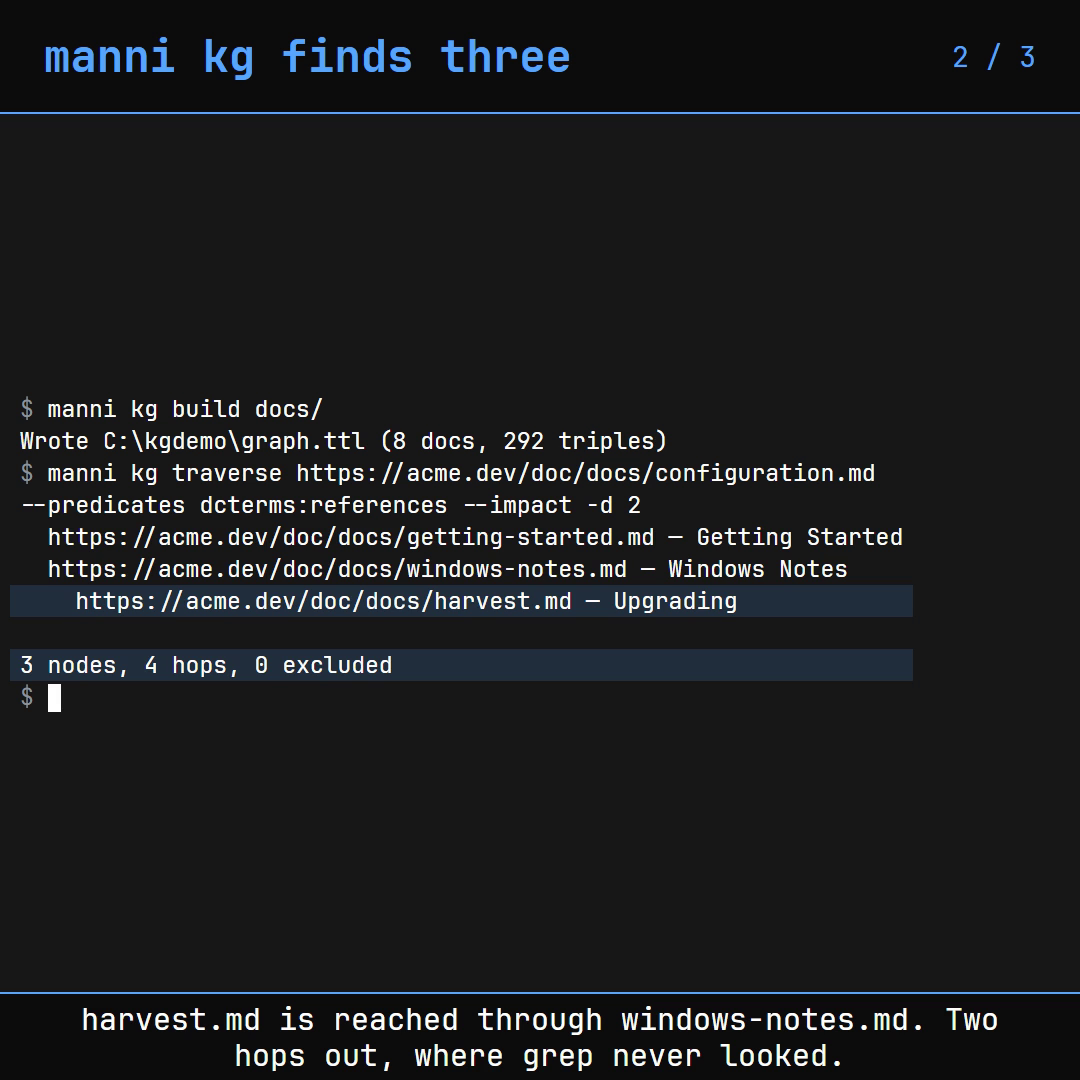
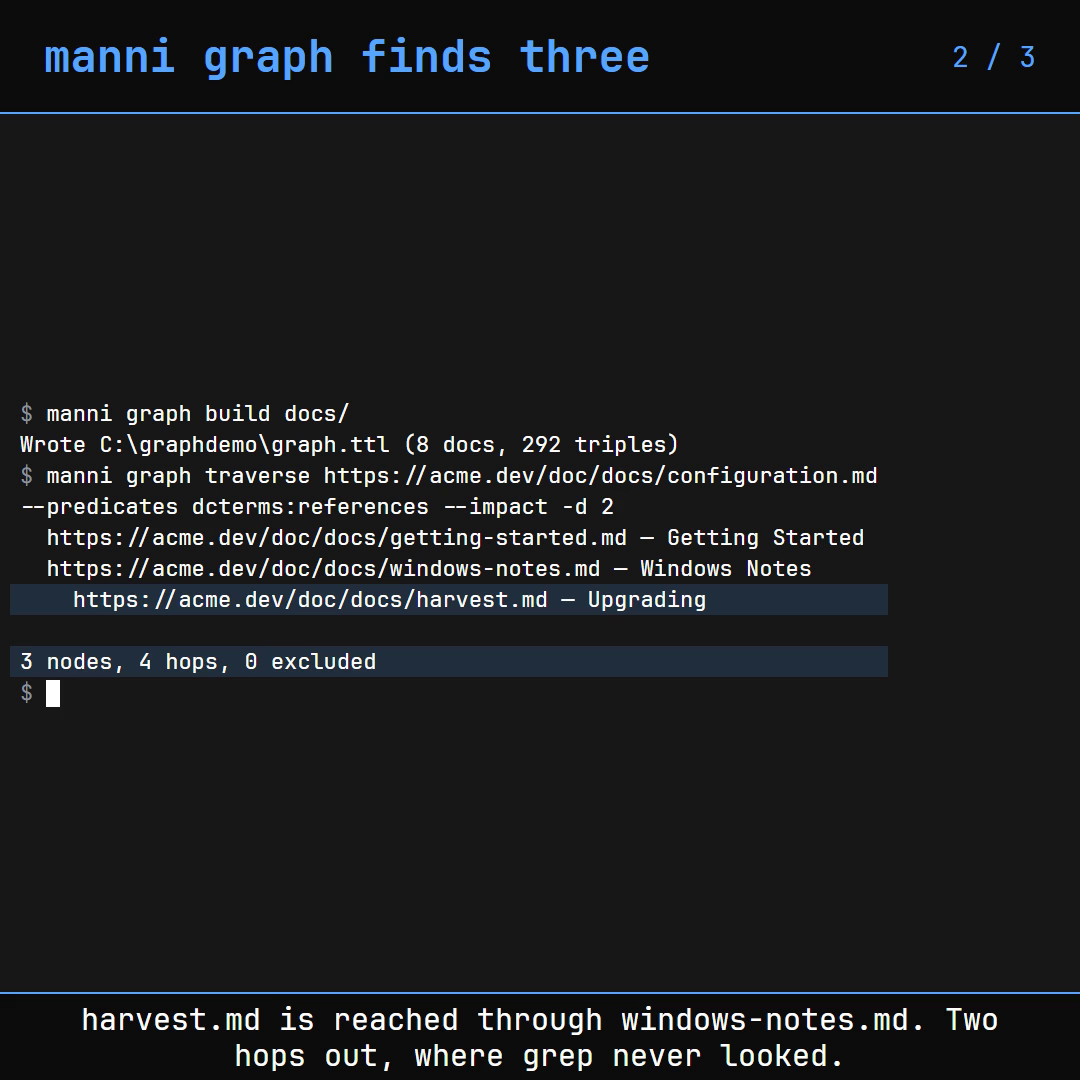
docs(media): the graph impact demo, re-shot under manni graph
Re-captures every terminal byte with the current build (1fc8bd2), so each frame,
the GIF and the thumbnail read `manni graph`. The staging repo moves from
C:\kgdemo to C:\graphdemo, and the capture script now refuses an existing
staging directory instead of deleting it.

The `graph:` prefix makes the two query rows 75 characters, so the type drops
to 22 px at 75 columns (70 px right margin). Latencies are re-measured (build
up to 1166 ms) and the video runs 33.8 s. The VTT and transcript are
regenerated from the new beats.

Changed region(s): [[0.0, 0.3667, 0.8556, 0.6722], [0.1833, 0.0306, 0.6111, 0.0917]]

diff --git a/media/remotion/scripts/out-graph-impact/graph-impact/beats.js b/media/remotion/scripts/out-graph-impact/graph-impact/beats.js
@@ -8,19 +8,19 @@ const captures_json_1 = __importDefault(require("./captures.json"));
 const beats_1 = require("../beats");
 Object.defineProperty(exports, "FPS", { enumerable: true, get: function () { return beats_1.FPS; } });
 // Typing speed for this video (design.md: 35-70 ms). The quick end of the range:
-// the traverse invocation is 108 characters, and at 45 ms it alone would eat
+// the traverse invocation is 111 characters, and at 45 ms it alone would eat
 // five seconds of a forty-five second budget.
 exports.TYPING_MS = 35;
-// Measured wall-clock latency on this machine, in C:\kgdemo
+// Measured wall-clock latency on this machine, in C:\graphdemo
 // (media/graph/graph-impact-capture/latency.txt: the capture run plus three timing runs):
-// build 823-864 ms, traverse 757-793 ms, query 754-794 ms, stats --check
-// 754-855 ms, grep 27-29 ms. Held to the slowest of each, so output never
+// build 1086-1166 ms, traverse 957-975 ms, query 947-964 ms, stats --check
+// 957-972 ms, grep 30-36 ms. Held to the slowest of each, so output never
 // appears sooner than the real command produced it.
 exports.latency = {
-    build: Math.round(0.86 * beats_1.FPS),
-    traverse: Math.round(0.79 * beats_1.FPS),
-    query: Math.round(0.79 * beats_1.FPS),
-    statsCheck: Math.round(0.86 * beats_1.FPS),
+    build: Math.round(1.17 * beats_1.FPS),
+    traverse: Math.round(0.98 * beats_1.FPS),
+    query: Math.round(0.97 * beats_1.FPS),
+    statsCheck: Math.round(0.98 * beats_1.FPS),
     grep: 2,
 };
 const IRI = "https://acme.dev/doc/docs/configuration.md";

diff --git a/media/remotion/src/graph-impact/beats.ts b/media/remotion/src/graph-impact/beats.ts
@@ -4,20 +4,20 @@ import { FPS, timeline, type Beat } from "../beats";
 export { FPS };
 
 // Typing speed for this video (design.md: 35-70 ms). The quick end of the range:
-// the traverse invocation is 108 characters, and at 45 ms it alone would eat
+// the traverse invocation is 111 characters, and at 45 ms it alone would eat
 // five seconds of a forty-five second budget.
 export const TYPING_MS = 35;
 
-// Measured wall-clock latency on this machine, in C:\kgdemo
+// Measured wall-clock latency on this machine, in C:\graphdemo
 // (media/graph/graph-impact-capture/latency.txt: the capture run plus three timing runs):
-// build 823-864 ms, traverse 757-793 ms, query 754-794 ms, stats --check
-// 754-855 ms, grep 27-29 ms. Held to the slowest of each, so output never
+// build 1086-1166 ms, traverse 957-975 ms, query 947-964 ms, stats --check
+// 957-972 ms, grep 30-36 ms. Held to the slowest of each, so output never
 // appears sooner than the real command produced it.
 export const latency = {
-  build: Math.round(0.86 * FPS),
-  traverse: Math.round(0.79 * FPS),
-  query: Math.round(0.79 * FPS),
-  statsCheck: Math.round(0.86 * FPS),
+  build: Math.round(1.17 * FPS),
+  traverse: Math.round(0.98 * FPS),
+  query: Math.round(0.97 * FPS),
+  statsCheck: Math.round(0.98 * FPS),
   grep: 2,
 };
 

diff --git a/media/remotion/src/Root.tsx b/media/remotion/src/Root.tsx
@@ -49,7 +49,7 @@ const DemoLint: React.FC = () => <DemoView beats={lintBeats} fontPx={22} linePx=
 const DemoGraph: React.FC = () => <DemoView beats={graphBeats} fontPx={22} linePx={31} cols={78} typingMs={graphTypingMs} ligatures={false} />;
 
 /** graph-impact-1x1: 23 px / 72 columns, derived in media/graph/graph-impact-1x1.script.md (media/graph/graph-impact-cols.mjs). */
-const DemoGraphImpact: React.FC = () => <DemoView beats={graphImpactBeats} fontPx={23} linePx={32} cols={72} typingMs={graphImpactTypingMs} />;
+const DemoGraphImpact: React.FC = () => <DemoView beats={graphImpactBeats} fontPx={22} linePx={31} cols={75} typingMs={graphImpactTypingMs} />;
 
 export const Root: React.FC = () => (
   <>

diff --git a/media/graph/graph-impact-1x1.script.md b/media/graph/graph-impact-1x1.script.md
@@ -9,10 +9,10 @@ every dead link, and `graph stats --check` exits 1 on them, so CI has something 
 fail on.
 
 **Format:** 1080x1080, 30 fps, silent, captions burned in (LinkedIn autoplays muted).
-**Duration:** 32.2 s (spec: 20-45 s).
+**Duration:** 33.8 s (spec: 20-45 s).
 **Audience:** docs engineers who own a docset and fear editing its hub pages
 (Maya), and CI engineers who want a gate for structural rot (Devin).
-**Feature:** `manni graph`, the knowledge-graph domain, on `kg/reimport`.
+**Feature:** `manni graph`, the knowledge-graph domain, on `tool/kg`.
 
 Visual spec: `docs/content-strategy/design.md`. Accent `#58a6ff` (blue), never
 red, green, yellow or cyan. Terminal `#171717`, bands `#0d0d0d`, JetBrains Mono
@@ -29,7 +29,7 @@ the transcript has no colour annotations.
 ## How it was made, and what is staged
 
 Everything printed in the terminal is a real run of `grep` or of
-`node dist/cli.js graph ...`, built from `kg/reimport` at `48d087e`. The typed
+`node dist/cli.js graph ...`, built from `tool/kg` at `1fc8bd2`. The typed
 command reads `manni`, the name `media/bin/manni` gives the built CLI.
 
 - **A Remotion replay of real bytes**, as in the location, provenance,
@@ -42,7 +42,9 @@ command reads `manni`, the name `media/bin/manni` gives the built CLI.
   **measured** latency. No output byte is edited.
 - **One script stages the repository and takes every capture:**
   `media/graph/graph-impact-capture.sh`. It is the record of the staging.
-- **The demo repository is `C:\kgdemo`, outside this checkout.** Two reasons,
+  It never deletes. When `C:\graphdemo` already exists it stops with exit 2,
+  and the person rerunning it removes the old copy.
+- **The demo repository is `C:\graphdemo`, outside this checkout.** Two reasons,
   both about what would otherwise be on screen. `graph build` reads git history,
   so a corpus sitting inside the manni worktree stamps *manni's* commits into
   the graph. A corpus with no git at all makes `build` print
@@ -59,8 +61,8 @@ command reads `manni`, the name `media/bin/manni` gives the built CLI.
   rows run 75 characters before the title even starts.
 - **Latency is disclosed, not trimmed.** `beats.ts` holds each output for the
   slowest of four measured runs (`media/graph/graph-impact-capture/latency.txt`). Those are
-  build 823-864 ms, traverse 757-793 ms, query 754-794 ms, `stats --check`
-  754-855 ms, grep 27-29 ms. Nothing is sped up; there is no speed-up factor
+  build 1086-1166 ms, traverse 957-975 ms, query 947-964 ms, `stats --check`
+  957-972 ms, grep 30-36 ms. Nothing is sped up; there is no speed-up factor
   in this video at all.
 
 ### What is *not* claimed
@@ -73,25 +75,25 @@ exits 1.
 
 ## Type and geometry
 
-Derived with `node graph/graph-impact-cols.mjs 23 72`, run from `media/`.
+Derived with `node graph/graph-impact-cols.mjs 22 75`, run from `media/`.
 
 | Property | Value | Why |
 |---|---|---|
-| Font size | **23 px** | line height 32 px |
-| Columns | **72** | the floor, not the ceiling. See below |
-| Tallest beat | 13 rows, 416 px of 878 | fits without a crop |
-| Filled row | 994 px wide, **66 px** from the frame edge | design check 2 |
+| Font size | **22 px** | line height 31 px |
+| Columns | **75** | the floor, not the ceiling. See below |
+| Tallest beat | 10 rows, 310 px of 878 | fits without a crop |
+| Filled row | 990 px wide, **70 px** from the frame edge | design check 2 |
 
 The column count is the interesting number. The font-size sweep in `cols.mjs`
-says 23 px *allows* 75 columns, and the first cut used that. But the wrapper
-fills every long row to exactly `cols`, so `cols` is what sets the right margin
-whatever the font size. At 75 the wrapped `traverse` command ended 25 px from
-the frame edge. 72 is the floor: the two `graph query` rows are 72 characters
-each. Wrapping either one orphans a bare `"missing.md"` onto its own row,
-which reads as a broken renderer. 72 exactly is therefore both the minimum and
-the choice, and it buys 66 px of margin for free.
+says 23 px *allows* 75 columns. But the wrapper fills every long row to exactly
+`cols`, so `cols` is what sets the right margin whatever the font size. 75 is
+the floor: the two `graph query` rows are 75 characters each, three more than
+under the old `kg:` prefix. Wrapping either one orphans a bare `"missing.md"`
+onto its own row, which reads as a broken renderer. At 23 px, 75 columns end
+25 px from the frame edge. At 22 px they end 70 px from it, so the re-shoot
+drops one pixel of type and keeps the margin.
 
-Wrapping at 72 also fixed the `traverse` invocation, which is 106 characters.
+Wrapping at 75 also fixes the `traverse` invocation, which is 111 characters.
 `--predicates dcterms:references --impact -d 2` is the same command as
 `--impact -d 2 --predicates dcterms:references`, but only the first order wraps
 onto a row boundary that leaves the whole flag set intact on row two. The
@@ -122,7 +124,7 @@ pages that depend on those.
 VISUAL: build, then the impact walk.
 ```
 $ manni graph build docs/
-Wrote C:\kgdemo\graph.ttl (8 docs, 292 triples)
+Wrote C:\graphdemo\graph.ttl (8 docs, 292 triples)
 $ manni graph traverse https://acme.dev/doc/docs/configuration.md --predicates dcterms:references --impact -d 2
   https://acme.dev/doc/docs/getting-started.md — Getting Started
   https://acme.dev/doc/docs/windows-notes.md — Windows Notes
@@ -141,7 +143,7 @@ found, and the third is one hop further. It is reachable only because
 Without it the walk also follows the `prov:used` edges from the build activity,
 which touch every document in the corpus and drown the answer.
 
-### 3. The build fails on it (0:20-0:32)
+### 3. The build fails on it (0:20-0:34)
 
 VISUAL: the same graph, queried for dead links, then the exit code.
 ```
@@ -168,13 +170,13 @@ From the repo root, with `npm run build` already done:
 
 ```bash
 cd media
-bash graph/graph-impact-capture.sh                    # stages C:\kgdemo, writes graph/graph-impact-capture/
-node graph/graph-impact-cols.mjs 23 72                # re-check the geometry
+bash graph/graph-impact-capture.sh                    # stages C:\graphdemo, writes graph/graph-impact-capture/
+node graph/graph-impact-cols.mjs 22 75                # re-check the geometry
 cd remotion
 npm ci
 node scripts/captures-graph-impact.mjs          # capture bytes -> src/graph-impact/captures.json
 npx remotion render src/index.ts GraphImpactDemo out/graph-impact-1x1.mp4
-npx tsc src/graph-impact/beats.ts src/beats.ts --ignoreConfig --outDir scripts/out-graph-impact \
+npx tsc src/graph-impact/beats.ts src/beats.ts --outDir scripts/out-graph-impact \
   --module commonjs --target es2020 --resolveJsonModule --esModuleInterop --skipLibCheck
 cd scripts && node vtt-graph-impact.cjs && node transcript-graph-impact.cjs
 ```
@@ -190,13 +192,13 @@ ffmpeg -y -ss 18.5 -i "$M" -frames:v 1 graph/graph-impact-1x1.thumb.png
 
 ## Shipping checks (design.md)
 
-1. **Longest line measured against the font size.** `node graph/graph-impact-cols.mjs 23 72`
-   prints every row; no token is split and no row exceeds 72 columns.
-2. **No text touching the frame edge.** A filled row ends 66 px short of it;
+1. **Longest line measured against the font size.** `node graph/graph-impact-cols.mjs 22 75`
+   prints every row; no token is split and no row exceeds 75 columns.
+2. **No text touching the frame edge.** A filled row ends 70 px short of it;
    the caption keeps every token whole (the nowrap change above).
 3. **Captions present on every beat.** Three beats, three captions, burned in,
    plus `graph-impact-1x1.vtt`.
-4. **`ffprobe` confirms the frame and duration.** 1080x1080, 30 fps, 32.28 s.
+4. **`ffprobe` confirms the frame and duration.** 1080x1080, 30 fps, 33.86 s.
 5. **Loudness.** Not applicable: the video is silent. Remotion writes an empty
    AAC track; there is no mix to normalise.
 6. **Accent is not red, green, yellow or cyan.** `#58a6ff`. And in this video
